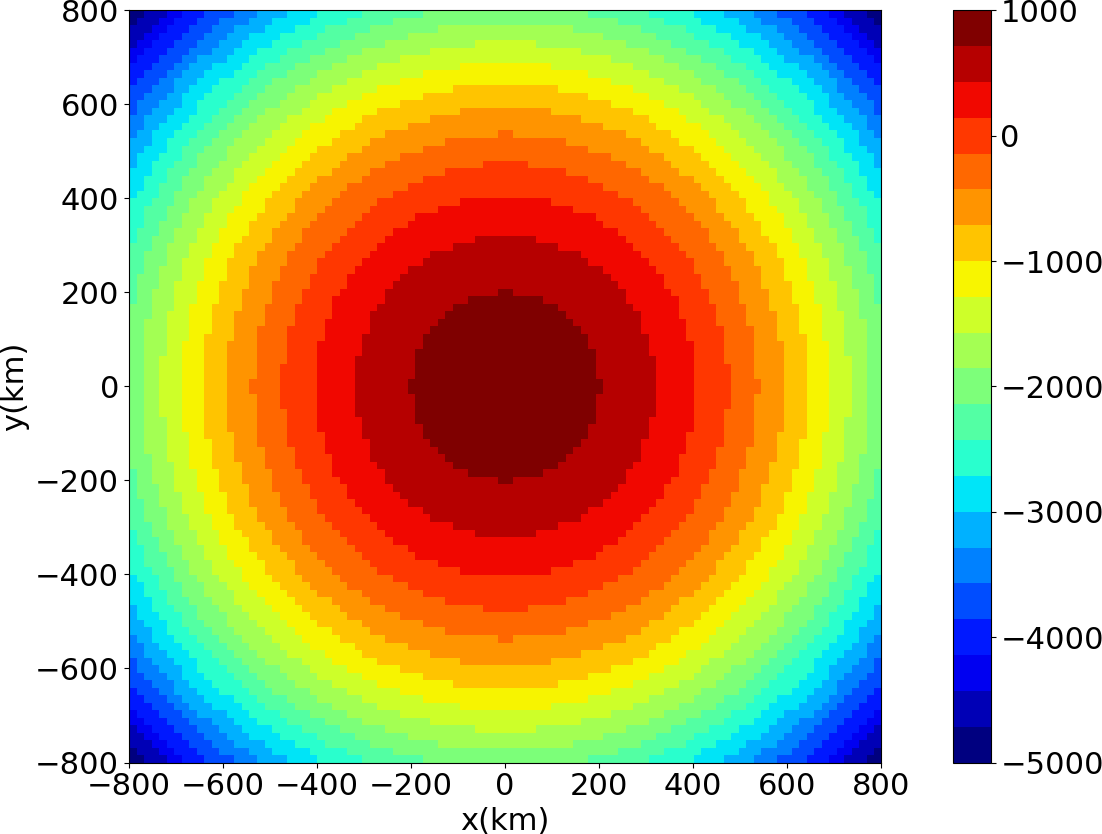
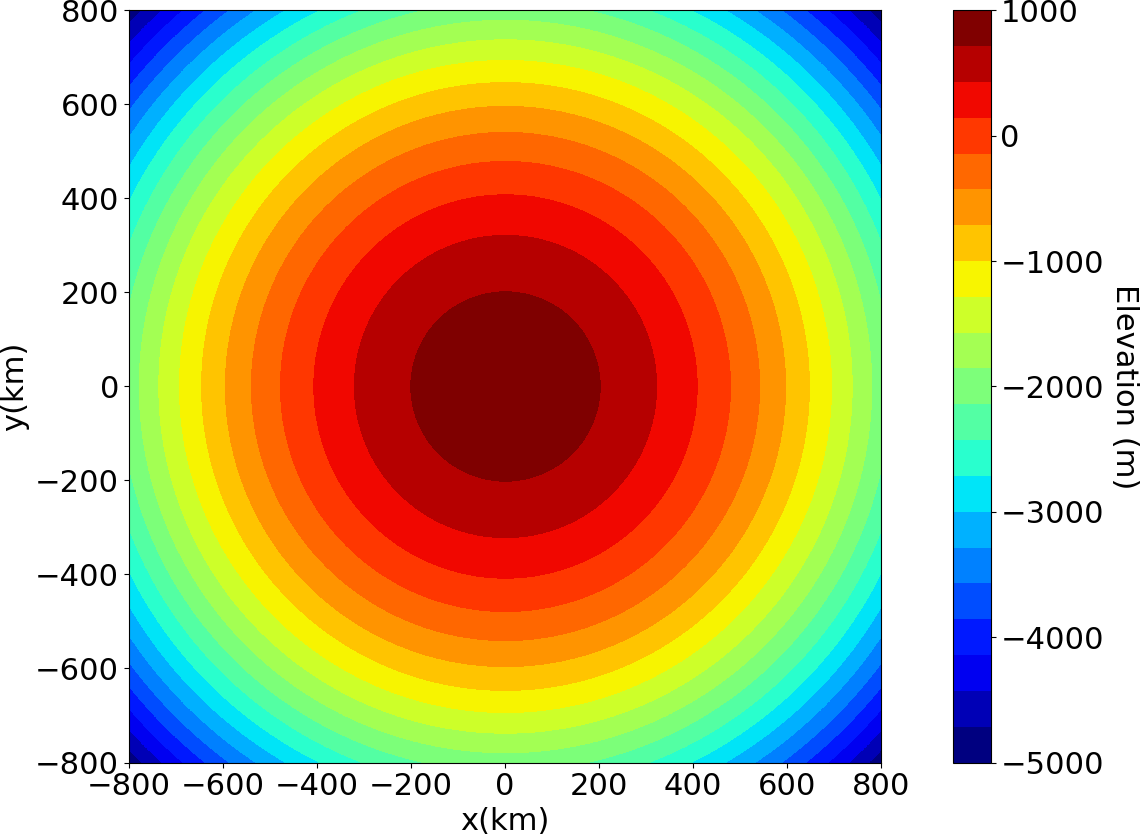
Cone figure improved

diff --git a/report-research-project-template-master/python/thule.py b/report-research-project-template-master/python/thule.py
@@ -43,18 +43,19 @@ rc=0
 def PlotCone2D():
 	## FIGURA 1. - 2D: Cone
 	#R=800e3
-    x,y = np.mgrid[-800e3:800e3:100j, -800e3:800e3:100j]
+    x,y = np.mgrid[-800e3:800e3:1000j, -800e3:800e3:1000j]
     plt.rcParams.update({'font.size': 22})
     z = cone(x,y,R,Bc,Bl) 
     plt.imshow(z,extent=[-800,800,-800,800],cmap=segmented_cmaps,vmin=-5000,vmax=1000)
-    plt.colorbar()
+    cbar = plt.colorbar()
+    cbar.ax.set_ylabel("Elevation (m)", rotation=270, labelpad=25)
     plt.xlabel("x(km)") 
     plt.ylabel("y(km)")
     plt.show()
 
 def PlotCone3D():
 	## FIGURA 2. - 3D: Cone
-    x,y = np.mgrid[-800e3:800e3:100j, -800e3:800e3:100j]
+    x,y = np.mgrid[-800e3:800e3:500j, -800e3:800e3:500j]
     fig, ax = plt.subplots(subplot_kw={"projection": "3d"})
     z = cone(y,x,R,Bc,Bl)
     ax = plt.axes(projection='3d')
@@ -63,7 +64,8 @@ def PlotCone3D():
     plt.xlabel("x (km)")
     plt.ylabel("y (km)")
 	# Add a color bar which maps values to colors.
-    fig.colorbar(surf, shrink=0.5, aspect=5)
+    cbar = fig.colorbar(surf, shrink=0.5, aspect=5)
+    cbar.ax.set_ylabel("Elevation (m)", rotation=270, labelpad=25)
     ax.xaxis.labelpad=20
     ax.yaxis.labelpad=20
     plt.show()
